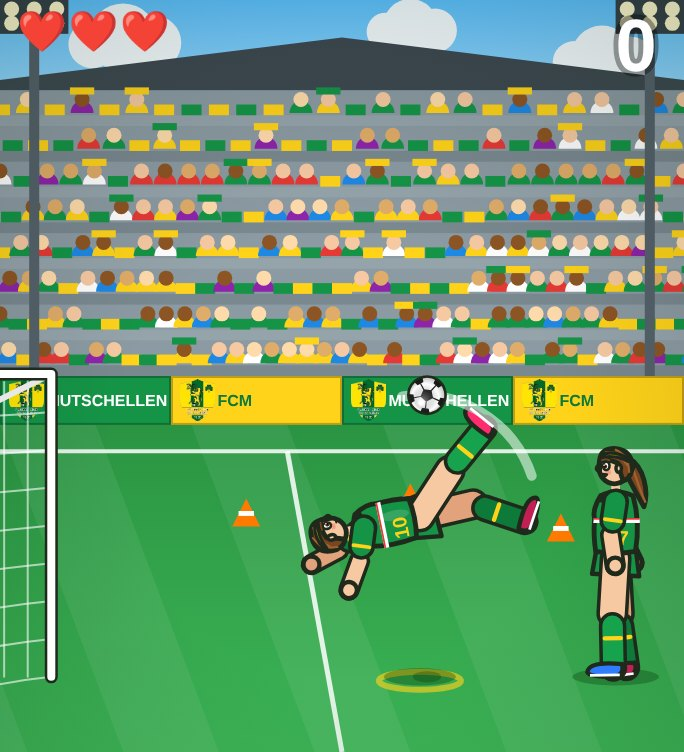
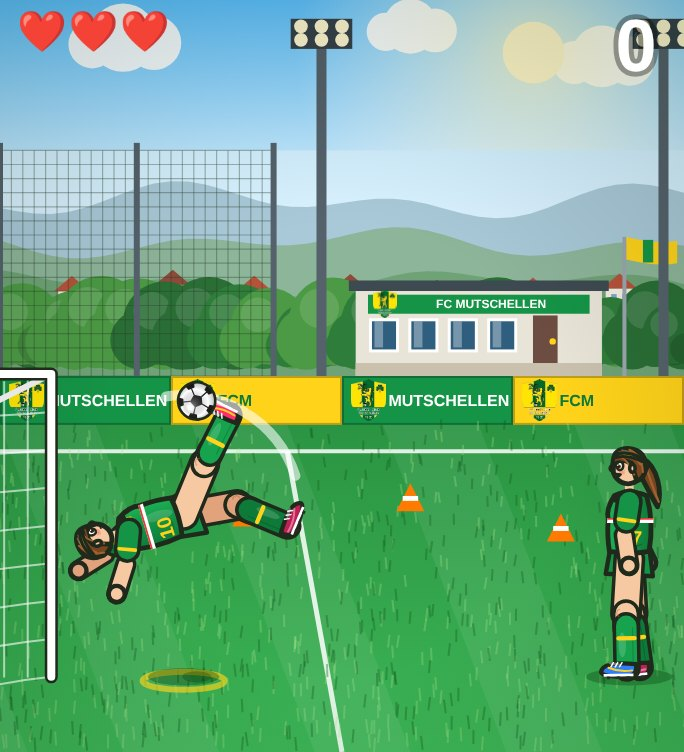
v5.44: Fallrückzieher – Trainingsplatz statt Tribüne, detailliertere Figuren
Claude-Session: https://claude.ai/code/session_012NCi8k7hXokk5zD6x6AgSm

diff --git a/index.html b/index.html
@@ -1908,7 +1908,7 @@ input.wc-sbox:focus{border-color:#8AB4F8}
 (function(){
 'use strict';
 var DAY=86400000, INT=[0,1,3,7,14,30], LS='lernwerkstatt.v1', DG=50;
-var APP_VERSION="v5.43";
+var APP_VERSION="v5.44";
 var C=null, P={}, nav={view:'home'}, timer=null, cardIdx={}, PADS={}, penTool='ink', lastAct=0, lastSave=0, SKIN=null, TQ=[];
 var LANG={engl:'en-GB',franz:'fr-FR'};
 var sync={db:null,state:'local',noWrite:false,timers:{},busy:{},last:{}};
@@ -6287,15 +6287,32 @@ GAMEFN.pong=function(cv,cx,w,h,score,over){
   function mkBG(){var c=document.createElement('canvas');c.width=w*dpr;c.height=h*dpr;var x=c.getContext('2d');x.scale(dpr,dpr);var i,k;
     var sk=x.createLinearGradient(0,0,0,h*.25);sk.addColorStop(0,'#5EC2FF');sk.addColorStop(1,'#D3F0FF');x.fillStyle=sk;x.fillRect(0,0,w,h*.25);
     x.fillStyle='rgba(255,255,255,.92)';[[.18,.05,.05],[.6,.035,.04],[.88,.075,.045]].forEach(function(q){cloud(x,q[0]*w,q[1]*h,w*q[2])});
-    var t0=h*.12,t1=h*.5;x.fillStyle='#8C9AA3';x.fillRect(0,t0,w,t1-t0);
-    x.fillStyle='#3E4A51';x.beginPath();x.moveTo(-5,t0-h*.012);x.lineTo(w*.5,t0-h*.07);x.lineTo(w+5,t0-h*.012);x.lineTo(w+5,t0);x.lineTo(-5,t0);x.fill();
-    var rows=8,rh=(t1-t0)/rows;for(var r=0;r<rows;r++){var yy=t0+r*rh;x.fillStyle=r%2?'#7A8890':'#95A3AB';x.fillRect(0,yy+rh*.7,w,rh*.3);
-      var n=26+r*2;for(i=0;i<n;i++){var sx=(i+(r%2)*.5)*w/(n-1),seed=r*70+i;
-        if(gHash(seed)<.66){var cols=['#159447','#FFD31A','#E53935','#1E88E5','#FFFFFF','#159447','#FFD31A','#8E24AA'];x.fillStyle=cols[Math.floor(gHash(seed+3)*cols.length)];x.beginPath();x.ellipse(sx,yy+rh*.64,rh*.32,rh*.34,0,Math.PI,0);x.fill();
-          x.fillStyle=['#F6C9A2','#E0AC69','#8D5524','#FFDBAC'][Math.floor(gHash(seed+7)*4)];x.beginPath();x.arc(sx,yy+rh*.26,rh*.21,0,7);x.fill();
-          if(gHash(seed+9)<.22){x.fillStyle=gHash(seed+11)<.5?YE:GR;x.fillRect(sx-rh*.34,yy-rh*.08,rh*.68,rh*.2)}}
-        else{x.fillStyle=(i+r)%2?GR:YE;x.fillRect(sx-rh*.28,yy+rh*.4,rh*.56,rh*.3)}}}
-    [w*.05,w*.95].forEach(function(mx){x.fillStyle='#55626B';x.fillRect(mx-2.5,h*.01,5,t1);x.fillStyle='#37424A';x.fillRect(mx-w*.05,0,w*.1,h*.045);x.fillStyle='#FFF8D0';for(var a=0;a<3;a++)for(var b=0;b<2;b++){x.beginPath();x.arc(mx-w*.033+a*w*.033,h*.012+b*h*.019,w*.011,0,7);x.fill()}});
+    var t1=h*.5;
+    glow(x,w*.78,h*.07,w*.35,'rgba(255,248,200,.8)');x.fillStyle='#FFF6C8';x.beginPath();x.arc(w*.78,h*.07,w*.045,0,7);x.fill();
+    var sk2=x.createLinearGradient(0,h*.2,0,t1);sk2.addColorStop(0,'#D3F0FF');sk2.addColorStop(1,'#EAF7FF');x.fillStyle=sk2;x.fillRect(0,h*.2,w,t1-h*.2);
+    /* Hügelzüge (Jura) */
+    function hills(y0,amp,col,seed){x.fillStyle=col;x.beginPath();x.moveTo(0,t1);for(var q=0;q<=40;q++){var xx=q/40*w,yy=y0-amp*(.55+.45*Math.sin(q*.35+seed)*Math.cos(q*.13+seed*2));x.lineTo(xx,yy)}x.lineTo(w,t1);x.fill()}
+    hills(h*.3,h*.06,'#A9C9D8',1);hills(h*.35,h*.05,'#8DB59A',3);hills(h*.4,h*.045,'#6FA276',5);
+    /* Häuser am Hang */
+    for(i=0;i<7;i++){var hx2=w*(.08+i*.13+gHash(i+40)*.04),hy2=h*(.37+gHash(i+41)*.03),hw2=w*.04,hh2=h*.025;x.fillStyle='#F3EEE4';x.fillRect(hx2,hy2,hw2,hh2);x.fillStyle=gHash(i+42)<.5?'#B5523B':'#8E4A3A';x.beginPath();x.moveTo(hx2-2,hy2);x.lineTo(hx2+hw2/2,hy2-hh2*.8);x.lineTo(hx2+hw2+2,hy2);x.fill();x.fillStyle='#7FA7C9';x.fillRect(hx2+hw2*.2,hy2+hh2*.3,hw2*.2,hh2*.3);x.fillRect(hx2+hw2*.6,hy2+hh2*.3,hw2*.2,hh2*.3)}
+    /* Baumreihe */
+    for(i=0;i<22;i++){var tx2=i/21*w+(gHash(i)-.5)*w*.04,ty2=t1-h*.02,tr=h*(.035+gHash(i+3)*.025);x.fillStyle='#5D4433';x.fillRect(tx2-2,ty2-tr*.4,4,tr*.5);
+      var tc=['#2F7D3A','#3E8E41','#2A6E35','#4C9A45'][Math.floor(gHash(i+5)*4)];x.fillStyle=tc;x.beginPath();x.arc(tx2,ty2-tr*.9,tr,0,7);x.arc(tx2-tr*.6,ty2-tr*.5,tr*.7,0,7);x.arc(tx2+tr*.6,ty2-tr*.5,tr*.7,0,7);x.fill();
+      x.fillStyle='rgba(255,255,255,.12)';x.beginPath();x.arc(tx2-tr*.3,ty2-tr*1.2,tr*.45,0,7);x.fill();x.fillStyle='rgba(0,0,0,.12)';x.beginPath();x.arc(tx2+tr*.4,ty2-tr*.4,tr*.5,0,7);x.fill()}
+    /* Clubhaus */
+    var chx=w*.52,chy=t1-h*.115,chw=w*.36,chh=h*.115;x.fillStyle='#E9E4D8';x.fillRect(chx,chy,chw,chh);x.fillStyle='#C9C1AE';x.fillRect(chx,chy+chh*.85,chw,chh*.15);
+    x.fillStyle='#3E4A51';x.fillRect(chx-w*.01,chy-h*.012,chw+w*.02,h*.014);
+    for(i=0;i<4;i++){var wx=chx+chw*(.06+i*.16);x.fillStyle='#2F5E7E';x.fillRect(wx,chy+chh*.35,chw*.11,chh*.36);x.fillStyle='rgba(255,255,255,.35)';x.fillRect(wx+2,chy+chh*.37,chw*.035,chh*.3);x.strokeStyle='#fff';x.lineWidth=1.5;x.strokeRect(wx,chy+chh*.35,chw*.11,chh*.36)}
+    x.fillStyle='#6D4C41';x.fillRect(chx+chw*.72,chy+chh*.3,chw*.1,chh*.55);x.fillStyle='#FFD31A';x.beginPath();x.arc(chx+chw*.8,chy+chh*.6,1.6,0,7);x.fill();
+    x.fillStyle=GR;x.fillRect(chx+chw*.05,chy+chh*.06,chw*.9,chh*.22);x.fillStyle='#fff';x.font='900 '+Math.floor(chh*.15)+'px Arial,sans-serif';x.textAlign='center';x.textBaseline='middle';x.fillText('FC MUTSCHELLEN',chx+chw*.55,chy+chh*.175);
+    if(LG.complete&&LG.naturalWidth){var lh2=chh*.32;x.drawImage(LG,chx+chw*.07,chy+chh*.01,lh2*LG.naturalWidth/LG.naturalHeight,lh2)}
+    /* Fahne */
+    x.fillStyle='#9AA5AD';x.fillRect(chx+chw+w*.03,chy-h*.07,2,chh+h*.07);x.fillStyle=YE;x.beginPath();x.moveTo(chx+chw+w*.03+2,chy-h*.07);x.quadraticCurveTo(chx+chw+w*.08,chy-h*.06,chx+chw+w*.11,chy-h*.065);x.lineTo(chx+chw+w*.11,chy-h*.035);x.quadraticCurveTo(chx+chw+w*.08,chy-h*.03,chx+chw+w*.03+2,chy-h*.04);x.fill();x.fillStyle=GR;x.fillRect(chx+chw+w*.06,chy-h*.066,w*.015,h*.03);
+    /* Ballfangnetz hinter dem Tor */
+    x.strokeStyle='rgba(40,60,40,.35)';x.lineWidth=.6;for(i=0;i<=24;i++){x.beginPath();x.moveTo(i*w*.4/24,h*.2);x.lineTo(i*w*.4/24,t1);x.stroke()}for(i=0;i<=16;i++){x.beginPath();x.moveTo(0,h*.2+i*(t1-h*.2)/16);x.lineTo(w*.4,h*.2+i*(t1-h*.2)/16);x.stroke()}
+    [0,w*.2,w*.4].forEach(function(px2){x.fillStyle='#55626B';x.fillRect(px2-1.5,h*.19,3,t1-h*.19)});
+    /* Flutlicht */
+    [w*.47,w*.97].forEach(function(mx){x.fillStyle='#55626B';x.fillRect(mx-2.5,h*.04,5,t1-h*.04);x.fillStyle='#37424A';x.fillRect(mx-w*.045,h*.025,w*.09,h*.04);x.fillStyle='#FFF8D0';for(var a=0;a<3;a++)for(var b=0;b<2;b++){x.beginPath();x.arc(mx-w*.03+a*w*.03,h*.035+b*h*.018,w*.01,0,7);x.fill()}});
     /* Werbebanden */
     var b0=t1,b1=h*.565,bw2=w/4;for(i=0;i<4;i++){var bx=i*bw2;x.fillStyle=i%2?YE:GR;x.fillRect(bx,b0,bw2,b1-b0);x.strokeStyle='rgba(0,0,0,.25)';x.lineWidth=1;x.strokeRect(bx+.5,b0+.5,bw2-1,b1-b0-1);
       var lh=(b1-b0)*.86;if(LG.complete&&LG.naturalWidth)x.drawImage(LG,bx+bw2*.05,b0+(b1-b0-lh)/2,lh*LG.naturalWidth/LG.naturalHeight,lh);
@@ -6305,6 +6322,7 @@ GAMEFN.pong=function(cv,cx,w,h,score,over){
     for(i=-2;i<9;i++){if(i%2)continue;x.fillStyle='rgba(255,255,255,.07)';x.beginPath();x.moveTo(i*w*.14,b1);x.lineTo((i+1)*w*.14,b1);x.lineTo((i+1)*w*.14+w*.18,h);x.lineTo(i*w*.14+w*.18,h);x.fill()}
     x.strokeStyle='rgba(255,255,255,.85)';x.lineWidth=2;x.beginPath();x.moveTo(0,h*.6);x.lineTo(w,h*.6);x.stroke();
     x.lineWidth=2.5;x.beginPath();x.moveTo(w*.42,h*.6);x.lineTo(w*.5,h);x.stroke();
+    for(i=0;i<900;i++){var gx3=gHash(i+100)*w,gy3=h*.57+Math.pow(gHash(i+200),.8)*h*.43,gl=2+gy3/h*5;x.strokeStyle=gHash(i+300)<.5?'rgba(20,90,30,.35)':'rgba(170,230,140,.3)';x.lineWidth=1;x.beginPath();x.moveTo(gx3,gy3);x.lineTo(gx3+(gHash(i+400)-.5)*2,gy3-gl);x.stroke()}
     /* Hütchen */
     [[.36,.7],[.6,.68],[.82,.72]].forEach(function(q){var px=q[0]*w,py=q[1]*h,s=7;x.fillStyle='#FF7A00';x.beginPath();x.moveTo(px-s,py);x.lineTo(px,py-s*2);x.lineTo(px+s,py);x.fill();x.fillStyle='#fff';x.fillRect(px-s*.55,py-s*1.1,s*1.1,s*.35)});
     var vg=x.createRadialGradient(w/2,h*.6,h*.3,w/2,h*.6,h*.85);vg.addColorStop(0,'rgba(0,0,0,0)');vg.addColorStop(1,'rgba(0,30,0,.22)');x.fillStyle=vg;x.fillRect(0,0,w,h);
@@ -6332,10 +6350,10 @@ GAMEFN.pong=function(cv,cx,w,h,score,over){
   var LW=2.2/M;
   function seg(x1,y1,x2,y2,wd,col){cx.lineCap='round';cx.strokeStyle=OL;cx.lineWidth=wd+LW*1.6;cx.beginPath();cx.moveTo(x1,y1);cx.lineTo(x2,y2);cx.stroke();cx.strokeStyle=col;cx.lineWidth=wd;cx.beginPath();cx.moveTo(x1,y1);cx.lineTo(x2,y2);cx.stroke()}
   function legD(L,k,back,boot){var kx=Math.sin(L)*.44,ky=Math.cos(L)*.44,a2=L-k,fx=kx+Math.sin(a2)*.44,fy=ky+Math.cos(a2)*.44,sk=back?SKIN2:SKIN,sock=back?GR2:'#17A24E';
-    seg(0,0,kx,ky,.2,sk);var mx=kx+Math.sin(a2)*.1,my=ky+Math.cos(a2)*.1;seg(mx,my,fx,fy,.165,sock);
+    seg(0,0,kx,ky,.2,sk);seg(kx,ky,kx+Math.sin(a2)*.12,ky+Math.cos(a2)*.12,.17,sk);var mx=kx+Math.sin(a2)*.1,my=ky+Math.cos(a2)*.1;seg(mx,my,fx,fy,.165,sock);cx.strokeStyle='rgba(0,0,0,.18)';cx.lineWidth=.008;for(var rb=0;rb<5;rb++){var rt=.2+rb*.13;cx.beginPath();cx.moveTo(mx+(fx-mx)*.05-Math.cos(a2)*(.05-rb*.006)+Math.sin(a2)*rt*.0,my+(fy-my)*.05+Math.sin(a2)*.05);cx.lineTo(mx+(fx-mx)*.95-Math.cos(a2)*(.05-rb*.006),my+(fy-my)*.95+Math.sin(a2)*.05);cx.stroke();break}cx.fillStyle='rgba(255,255,255,.16)';cx.beginPath();cx.ellipse(mx+(fx-mx)*.45+Math.cos(a2)*.035,my+(fy-my)*.45-Math.sin(a2)*.035,.03,.1,-a2,0,7);cx.fill();cx.strokeStyle=back?'rgba(120,60,40,.25)':'rgba(180,100,70,.4)';cx.lineWidth=.012;cx.beginPath();cx.arc(kx+Math.cos(L)*.045,ky-Math.sin(L)*.045,.03,-L-1.2,-L+1.2);cx.stroke();
     cx.strokeStyle=YE;cx.lineWidth=.035;cx.beginPath();var tx=kx+Math.sin(a2)*.2,ty=ky+Math.cos(a2)*.2;cx.moveTo(tx-Math.cos(a2)*.065,ty+Math.sin(a2)*.065);cx.lineTo(tx+Math.cos(a2)*.065,ty-Math.sin(a2)*.065);cx.stroke();
     cx.save();cx.translate(fx,fy);cx.rotate(-a2);cx.fillStyle=back?'#C21F55':boot;ol(LW);cx.beginPath();cx.moveTo(-.07,-.03);cx.quadraticCurveTo(.2,-.06,.21,.03);cx.quadraticCurveTo(.2,.07,0,.07);cx.quadraticCurveTo(-.09,.06,-.07,-.03);cx.fill();cx.stroke();
-    cx.fillStyle='#fff';cx.fillRect(-.05,.045,.24,.022);cx.restore();return [fx,fy]}
+    cx.fillStyle='#fff';cx.fillRect(-.05,.045,.24,.022);cx.fillStyle='#2B2B2B';[-.02,.06,.14].forEach(function(sx3){cx.fillRect(sx3,.066,.025,.022)});cx.strokeStyle='#fff';cx.lineWidth=.012;for(var lc=0;lc<3;lc++){cx.beginPath();cx.moveTo(.04+lc*.035,-.045);cx.lineTo(.06+lc*.035,-.012);cx.stroke()}cx.strokeStyle=back?'rgba(255,255,255,.4)':'#FFD31A';cx.lineWidth=.016;cx.beginPath();cx.moveTo(-.04,.02);cx.quadraticCurveTo(.06,.035,.15,-.005);cx.stroke();cx.fillStyle='rgba(255,255,255,.35)';cx.beginPath();cx.ellipse(.1,-.035,.05,.012,-.15,0,7);cx.fill();cx.restore();return [fx,fy]}
   function armD(A,e,back){var sx=0,sy=-.46,ex=Math.sin(A)*.27,ey=sy+Math.cos(A)*.27,a2=A+e,hx=ex+Math.sin(a2)*.25,hy=ey+Math.cos(a2)*.25,sk=back?SKIN2:SKIN;
     seg(ex,ey,hx,hy,.115,sk);seg(sx,sy,sx+Math.sin(A)*.15,sy+Math.cos(A)*.15,.16,back?GR2:GR);cx.strokeStyle=YE;cx.lineWidth=.03;cx.beginPath();cx.moveTo(Math.sin(A)*.15-Math.cos(A)*.065,sy+Math.cos(A)*.15+Math.sin(A)*.065);cx.lineTo(Math.sin(A)*.15+Math.cos(A)*.065,sy+Math.cos(A)*.15-Math.sin(A)*.065);cx.stroke();
     cx.fillStyle=sk;ol(LW);cx.beginPath();cx.arc(hx,hy,.065,0,7);cx.fill();cx.stroke();return [hx,hy]}
@@ -6348,12 +6366,12 @@ GAMEFN.pong=function(cv,cx,w,h,score,over){
     var bt=o.boot||'#FF2D6F';
     armD(p.aB,p.eB,true);legD(p.lB,p.kB,true,bt);
     /* Hose */
-    cx.fillStyle=GR;ol(LW);cx.beginPath();cx.moveTo(-.16,-.1);cx.lineTo(.15,-.1);cx.lineTo(.19,.12);cx.lineTo(-.19,.14);cx.closePath();cx.fill();cx.stroke();cx.strokeStyle=YE;cx.lineWidth=.03;cx.beginPath();cx.moveTo(0,-.08);cx.lineTo(.01,.1);cx.stroke();
+    cx.fillStyle=GR;ol(LW);cx.beginPath();cx.moveTo(-.16,-.1);cx.lineTo(.15,-.1);cx.lineTo(.19,.12);cx.lineTo(-.19,.14);cx.closePath();cx.fill();cx.stroke();cx.strokeStyle=YE;cx.lineWidth=.03;cx.beginPath();cx.moveTo(0,-.08);cx.lineTo(.01,.1);cx.stroke();cx.fillStyle='rgba(0,0,0,.18)';cx.fillRect(-.16,-.1,.31,.035);cx.fillStyle=YE;cx.font='900 .07px Arial,sans-serif';cx.textAlign='center';cx.save();cx.scale(dir,1);cx.fillText(o.num||'10',.08*dir,.05);cx.restore();
     var foot=legD(p.lF,p.kF,false,bt);
     /* Trikot */
-    cx.fillStyle=GR;ol(LW*1.1);cx.beginPath();cx.moveTo(-.16,-.06);cx.quadraticCurveTo(-.2,-.3,-.14,-.51);cx.quadraticCurveTo(0,-.57,.12,-.51);cx.quadraticCurveTo(.19,-.4,.17,-.32);cx.quadraticCurveTo(.18,-.18,.16,-.06);cx.quadraticCurveTo(0,-.03,-.16,-.06);cx.closePath();cx.fill();cx.stroke();
+    var jg=cx.createLinearGradient(-.18,0,.18,0);jg.addColorStop(0,GR2);jg.addColorStop(.55,GR);jg.addColorStop(1,'#1DB357');cx.fillStyle=jg;ol(LW*1.1);cx.beginPath();cx.moveTo(-.16,-.06);cx.quadraticCurveTo(-.2,-.3,-.14,-.51);cx.quadraticCurveTo(0,-.57,.12,-.51);cx.quadraticCurveTo(.19,-.4,.17,-.32);cx.quadraticCurveTo(.18,-.18,.16,-.06);cx.quadraticCurveTo(0,-.03,-.16,-.06);cx.closePath();cx.fill();cx.stroke();
     cx.fillStyle='#fff';cx.beginPath();cx.moveTo(.175,-.33);cx.lineTo(-.195,-.33);cx.lineTo(-.195,-.29);cx.lineTo(.18,-.29);cx.fill();cx.fillStyle='#E53935';cx.fillRect(-.195,-.33,.37,.014);
-    cx.fillStyle='rgba(255,255,255,.15)';cx.beginPath();cx.ellipse(.05,-.2,.04,.12,0,0,7);cx.fill();
+    cx.fillStyle='rgba(255,255,255,.15)';cx.beginPath();cx.ellipse(.05,-.2,.04,.12,0,0,7);cx.fill();cx.strokeStyle='rgba(0,0,0,.18)';cx.lineWidth=.012;cx.beginPath();cx.moveTo(-.1,-.12);cx.quadraticCurveTo(-.05,-.09,.0,-.12);cx.moveTo(-.08,-.42);cx.quadraticCurveTo(-.02,-.38,.04,-.43);cx.stroke();if(LG.complete&&LG.naturalWidth){cx.save();cx.scale(dir,1);cx.drawImage(LG,(dir>0?.03:-.11),-.47,.08,.094);cx.restore()}
     cx.fillStyle=YE;cx.font='900 .16px Arial Black,Arial,sans-serif';cx.textAlign='center';cx.textBaseline='middle';cx.save();cx.scale(dir,1);cx.fillText(o.num||'10',-.06*dir,-.16);cx.restore();
     cx.fillStyle=YE;ol(LW*.8);cx.beginPath();cx.moveTo(.02,-.53);cx.quadraticCurveTo(.1,-.5,.12,-.47);cx.lineTo(.08,-.46);cx.quadraticCurveTo(.05,-.49,.0,-.5);cx.closePath();cx.fill();cx.stroke();
     /* Hals + Kopf (Profil) */
@@ -6363,7 +6381,7 @@ GAMEFN.pong=function(cv,cx,w,h,score,over){
     cx.fillStyle=SKIN;cx.beginPath();cx.moveTo(.125,hy-.02);cx.quadraticCurveTo(.17,hy+.015,.13,hy+.03);cx.closePath();cx.fill();cx.stroke();
     /* Haare */
     cx.fillStyle=HAIR;ol(LW*1.1);cx.beginPath();cx.moveTo(.13,hy-.05);cx.quadraticCurveTo(.12,hy-.15,.01,hy-.15);cx.quadraticCurveTo(-.15,hy-.14,-.13,hy+.03);cx.quadraticCurveTo(-.11,hy+.1,-.06,hy+.11);cx.quadraticCurveTo(-.03,hy+.02,-.02,hy-.03);cx.quadraticCurveTo(.05,hy-.07,.13,hy-.05);cx.fill();cx.stroke();
-    cx.strokeStyle=HAIR2;cx.lineWidth=.016;cx.beginPath();cx.moveTo(.08,hy-.12);cx.quadraticCurveTo(-.03,hy-.12,-.09,hy-.02);cx.moveTo(.0,hy-.14);cx.quadraticCurveTo(-.1,hy-.1,-.11,hy+.04);cx.stroke();
+    cx.strokeStyle=HAIR2;cx.lineWidth=.016;cx.beginPath();cx.moveTo(.08,hy-.12);cx.quadraticCurveTo(-.03,hy-.12,-.09,hy-.02);cx.moveTo(.0,hy-.14);cx.quadraticCurveTo(-.1,hy-.1,-.11,hy+.04);cx.moveTo(.11,hy-.08);cx.quadraticCurveTo(.03,hy-.1,-.04,hy+.06);cx.stroke();cx.strokeStyle='rgba(255,220,170,.35)';cx.lineWidth=.012;cx.beginPath();cx.moveTo(.06,hy-.135);cx.quadraticCurveTo(-.02,hy-.13,-.07,hy-.07);cx.stroke();
     cx.fillStyle=YE;ol(LW*.7);cx.beginPath();cx.moveTo(.1,hy-.105);cx.quadraticCurveTo(0,hy-.13,-.1,hy-.07);cx.lineTo(-.105,hy-.045);cx.quadraticCurveTo(0,hy-.1,.11,hy-.08);cx.closePath();cx.fill();cx.stroke();
     /* Ohr */
     cx.fillStyle=SKIN;ol(LW*.8);cx.beginPath();cx.ellipse(-.025,hy+.01,.022,.032,0,0,7);cx.fill();cx.stroke();
@@ -6371,7 +6389,7 @@ GAMEFN.pong=function(cv,cx,w,h,score,over){
     var fc=o.face||'happy';
     if(fc==='ouch'){cx.strokeStyle=OL;cx.lineWidth=.016;cx.beginPath();cx.moveTo(.055,hy-.03);cx.lineTo(.095,hy+.005);cx.moveTo(.095,hy-.03);cx.lineTo(.055,hy+.005);cx.stroke();cx.fillStyle='#7A1E1E';cx.beginPath();cx.ellipse(.095,hy+.065,.022,.028,0,0,7);cx.fill()}
     else{cx.fillStyle='#fff';ol(LW*.6);cx.beginPath();cx.ellipse(.075,hy-.01,.026,.034,0,0,7);cx.fill();cx.stroke();cx.fillStyle='#4E2A12';cx.beginPath();cx.arc(.085,hy-.005,.017,0,7);cx.fill();cx.fillStyle='#111';cx.beginPath();cx.arc(.088,hy-.005,.008,0,7);cx.fill();cx.fillStyle='#fff';cx.beginPath();cx.arc(.093,hy-.014,.006,0,7);cx.fill();
-      cx.strokeStyle=OL;cx.lineWidth=.012;cx.beginPath();cx.moveTo(.1,hy-.04);cx.lineTo(.115,hy-.05);cx.stroke();
+      cx.strokeStyle=OL;cx.lineWidth=.012;cx.beginPath();cx.moveTo(.1,hy-.04);cx.lineTo(.115,hy-.05);cx.moveTo(.095,hy-.043);cx.lineTo(.104,hy-.058);cx.moveTo(.102,hy-.03);cx.lineTo(.12,hy-.034);cx.stroke();
       cx.strokeStyle=HAIR;cx.lineWidth=.014;cx.beginPath();cx.moveTo(.05,hy-.055);cx.quadraticCurveTo(.08,hy-.07+(fc==='focus'?.012:0),.11,hy-.055);cx.stroke();
       cx.fillStyle='rgba(255,110,110,.45)';cx.beginPath();cx.ellipse(.06,hy+.045,.025,.015,0,0,7);cx.fill();
       cx.fillStyle='rgba(160,90,50,.55)';[[.04,.03],[.055,.04],[.075,.033]].forEach(function(q){cx.beginPath();cx.arc(q[0],hy+q[1],.004,0,7);cx.fill()});

diff --git a/src/p6d.js b/src/p6d.js
@@ -637,15 +637,32 @@ GAMEFN.pong=function(cv,cx,w,h,score,over){
   function mkBG(){var c=document.createElement('canvas');c.width=w*dpr;c.height=h*dpr;var x=c.getContext('2d');x.scale(dpr,dpr);var i,k;
     var sk=x.createLinearGradient(0,0,0,h*.25);sk.addColorStop(0,'#5EC2FF');sk.addColorStop(1,'#D3F0FF');x.fillStyle=sk;x.fillRect(0,0,w,h*.25);
     x.fillStyle='rgba(255,255,255,.92)';[[.18,.05,.05],[.6,.035,.04],[.88,.075,.045]].forEach(function(q){cloud(x,q[0]*w,q[1]*h,w*q[2])});
-    var t0=h*.12,t1=h*.5;x.fillStyle='#8C9AA3';x.fillRect(0,t0,w,t1-t0);
-    x.fillStyle='#3E4A51';x.beginPath();x.moveTo(-5,t0-h*.012);x.lineTo(w*.5,t0-h*.07);x.lineTo(w+5,t0-h*.012);x.lineTo(w+5,t0);x.lineTo(-5,t0);x.fill();
-    var rows=8,rh=(t1-t0)/rows;for(var r=0;r<rows;r++){var yy=t0+r*rh;x.fillStyle=r%2?'#7A8890':'#95A3AB';x.fillRect(0,yy+rh*.7,w,rh*.3);
-      var n=26+r*2;for(i=0;i<n;i++){var sx=(i+(r%2)*.5)*w/(n-1),seed=r*70+i;
-        if(gHash(seed)<.66){var cols=['#159447','#FFD31A','#E53935','#1E88E5','#FFFFFF','#159447','#FFD31A','#8E24AA'];x.fillStyle=cols[Math.floor(gHash(seed+3)*cols.length)];x.beginPath();x.ellipse(sx,yy+rh*.64,rh*.32,rh*.34,0,Math.PI,0);x.fill();
-          x.fillStyle=['#F6C9A2','#E0AC69','#8D5524','#FFDBAC'][Math.floor(gHash(seed+7)*4)];x.beginPath();x.arc(sx,yy+rh*.26,rh*.21,0,7);x.fill();
-          if(gHash(seed+9)<.22){x.fillStyle=gHash(seed+11)<.5?YE:GR;x.fillRect(sx-rh*.34,yy-rh*.08,rh*.68,rh*.2)}}
-        else{x.fillStyle=(i+r)%2?GR:YE;x.fillRect(sx-rh*.28,yy+rh*.4,rh*.56,rh*.3)}}}
-    [w*.05,w*.95].forEach(function(mx){x.fillStyle='#55626B';x.fillRect(mx-2.5,h*.01,5,t1);x.fillStyle='#37424A';x.fillRect(mx-w*.05,0,w*.1,h*.045);x.fillStyle='#FFF8D0';for(var a=0;a<3;a++)for(var b=0;b<2;b++){x.beginPath();x.arc(mx-w*.033+a*w*.033,h*.012+b*h*.019,w*.011,0,7);x.fill()}});
+    var t1=h*.5;
+    glow(x,w*.78,h*.07,w*.35,'rgba(255,248,200,.8)');x.fillStyle='#FFF6C8';x.beginPath();x.arc(w*.78,h*.07,w*.045,0,7);x.fill();
+    var sk2=x.createLinearGradient(0,h*.2,0,t1);sk2.addColorStop(0,'#D3F0FF');sk2.addColorStop(1,'#EAF7FF');x.fillStyle=sk2;x.fillRect(0,h*.2,w,t1-h*.2);
+    /* Hügelzüge (Jura) */
+    function hills(y0,amp,col,seed){x.fillStyle=col;x.beginPath();x.moveTo(0,t1);for(var q=0;q<=40;q++){var xx=q/40*w,yy=y0-amp*(.55+.45*Math.sin(q*.35+seed)*Math.cos(q*.13+seed*2));x.lineTo(xx,yy)}x.lineTo(w,t1);x.fill()}
+    hills(h*.3,h*.06,'#A9C9D8',1);hills(h*.35,h*.05,'#8DB59A',3);hills(h*.4,h*.045,'#6FA276',5);
+    /* Häuser am Hang */
+    for(i=0;i<7;i++){var hx2=w*(.08+i*.13+gHash(i+40)*.04),hy2=h*(.37+gHash(i+41)*.03),hw2=w*.04,hh2=h*.025;x.fillStyle='#F3EEE4';x.fillRect(hx2,hy2,hw2,hh2);x.fillStyle=gHash(i+42)<.5?'#B5523B':'#8E4A3A';x.beginPath();x.moveTo(hx2-2,hy2);x.lineTo(hx2+hw2/2,hy2-hh2*.8);x.lineTo(hx2+hw2+2,hy2);x.fill();x.fillStyle='#7FA7C9';x.fillRect(hx2+hw2*.2,hy2+hh2*.3,hw2*.2,hh2*.3);x.fillRect(hx2+hw2*.6,hy2+hh2*.3,hw2*.2,hh2*.3)}
+    /* Baumreihe */
+    for(i=0;i<22;i++){var tx2=i/21*w+(gHash(i)-.5)*w*.04,ty2=t1-h*.02,tr=h*(.035+gHash(i+3)*.025);x.fillStyle='#5D4433';x.fillRect(tx2-2,ty2-tr*.4,4,tr*.5);
+      var tc=['#2F7D3A','#3E8E41','#2A6E35','#4C9A45'][Math.floor(gHash(i+5)*4)];x.fillStyle=tc;x.beginPath();x.arc(tx2,ty2-tr*.9,tr,0,7);x.arc(tx2-tr*.6,ty2-tr*.5,tr*.7,0,7);x.arc(tx2+tr*.6,ty2-tr*.5,tr*.7,0,7);x.fill();
+      x.fillStyle='rgba(255,255,255,.12)';x.beginPath();x.arc(tx2-tr*.3,ty2-tr*1.2,tr*.45,0,7);x.fill();x.fillStyle='rgba(0,0,0,.12)';x.beginPath();x.arc(tx2+tr*.4,ty2-tr*.4,tr*.5,0,7);x.fill()}
+    /* Clubhaus */
+    var chx=w*.52,chy=t1-h*.115,chw=w*.36,chh=h*.115;x.fillStyle='#E9E4D8';x.fillRect(chx,chy,chw,chh);x.fillStyle='#C9C1AE';x.fillRect(chx,chy+chh*.85,chw,chh*.15);
+    x.fillStyle='#3E4A51';x.fillRect(chx-w*.01,chy-h*.012,chw+w*.02,h*.014);
+    for(i=0;i<4;i++){var wx=chx+chw*(.06+i*.16);x.fillStyle='#2F5E7E';x.fillRect(wx,chy+chh*.35,chw*.11,chh*.36);x.fillStyle='rgba(255,255,255,.35)';x.fillRect(wx+2,chy+chh*.37,chw*.035,chh*.3);x.strokeStyle='#fff';x.lineWidth=1.5;x.strokeRect(wx,chy+chh*.35,chw*.11,chh*.36)}
+    x.fillStyle='#6D4C41';x.fillRect(chx+chw*.72,chy+chh*.3,chw*.1,chh*.55);x.fillStyle='#FFD31A';x.beginPath();x.arc(chx+chw*.8,chy+chh*.6,1.6,0,7);x.fill();
+    x.fillStyle=GR;x.fillRect(chx+chw*.05,chy+chh*.06,chw*.9,chh*.22);x.fillStyle='#fff';x.font='900 '+Math.floor(chh*.15)+'px Arial,sans-serif';x.textAlign='center';x.textBaseline='middle';x.fillText('FC MUTSCHELLEN',chx+chw*.55,chy+chh*.175);
+    if(LG.complete&&LG.naturalWidth){var lh2=chh*.32;x.drawImage(LG,chx+chw*.07,chy+chh*.01,lh2*LG.naturalWidth/LG.naturalHeight,lh2)}
+    /* Fahne */
+    x.fillStyle='#9AA5AD';x.fillRect(chx+chw+w*.03,chy-h*.07,2,chh+h*.07);x.fillStyle=YE;x.beginPath();x.moveTo(chx+chw+w*.03+2,chy-h*.07);x.quadraticCurveTo(chx+chw+w*.08,chy-h*.06,chx+chw+w*.11,chy-h*.065);x.lineTo(chx+chw+w*.11,chy-h*.035);x.quadraticCurveTo(chx+chw+w*.08,chy-h*.03,chx+chw+w*.03+2,chy-h*.04);x.fill();x.fillStyle=GR;x.fillRect(chx+chw+w*.06,chy-h*.066,w*.015,h*.03);
+    /* Ballfangnetz hinter dem Tor */
+    x.strokeStyle='rgba(40,60,40,.35)';x.lineWidth=.6;for(i=0;i<=24;i++){x.beginPath();x.moveTo(i*w*.4/24,h*.2);x.lineTo(i*w*.4/24,t1);x.stroke()}for(i=0;i<=16;i++){x.beginPath();x.moveTo(0,h*.2+i*(t1-h*.2)/16);x.lineTo(w*.4,h*.2+i*(t1-h*.2)/16);x.stroke()}
+    [0,w*.2,w*.4].forEach(function(px2){x.fillStyle='#55626B';x.fillRect(px2-1.5,h*.19,3,t1-h*.19)});
+    /* Flutlicht */
+    [w*.47,w*.97].forEach(function(mx){x.fillStyle='#55626B';x.fillRect(mx-2.5,h*.04,5,t1-h*.04);x.fillStyle='#37424A';x.fillRect(mx-w*.045,h*.025,w*.09,h*.04);x.fillStyle='#FFF8D0';for(var a=0;a<3;a++)for(var b=0;b<2;b++){x.beginPath();x.arc(mx-w*.03+a*w*.03,h*.035+b*h*.018,w*.01,0,7);x.fill()}});
     /* Werbebanden */
     var b0=t1,b1=h*.565,bw2=w/4;for(i=0;i<4;i++){var bx=i*bw2;x.fillStyle=i%2?YE:GR;x.fillRect(bx,b0,bw2,b1-b0);x.strokeStyle='rgba(0,0,0,.25)';x.lineWidth=1;x.strokeRect(bx+.5,b0+.5,bw2-1,b1-b0-1);
       var lh=(b1-b0)*.86;if(LG.complete&&LG.naturalWidth)x.drawImage(LG,bx+bw2*.05,b0+(b1-b0-lh)/2,lh*LG.naturalWidth/LG.naturalHeight,lh);
@@ -655,6 +672,7 @@ GAMEFN.pong=function(cv,cx,w,h,score,over){
     for(i=-2;i<9;i++){if(i%2)continue;x.fillStyle='rgba(255,255,255,.07)';x.beginPath();x.moveTo(i*w*.14,b1);x.lineTo((i+1)*w*.14,b1);x.lineTo((i+1)*w*.14+w*.18,h);x.lineTo(i*w*.14+w*.18,h);x.fill()}
     x.strokeStyle='rgba(255,255,255,.85)';x.lineWidth=2;x.beginPath();x.moveTo(0,h*.6);x.lineTo(w,h*.6);x.stroke();
     x.lineWidth=2.5;x.beginPath();x.moveTo(w*.42,h*.6);x.lineTo(w*.5,h);x.stroke();
+    for(i=0;i<900;i++){var gx3=gHash(i+100)*w,gy3=h*.57+Math.pow(gHash(i+200),.8)*h*.43,gl=2+gy3/h*5;x.strokeStyle=gHash(i+300)<.5?'rgba(20,90,30,.35)':'rgba(170,230,140,.3)';x.lineWidth=1;x.beginPath();x.moveTo(gx3,gy3);x.lineTo(gx3+(gHash(i+400)-.5)*2,gy3-gl);x.stroke()}
     /* Hütchen */
     [[.36,.7],[.6,.68],[.82,.72]].forEach(function(q){var px=q[0]*w,py=q[1]*h,s=7;x.fillStyle='#FF7A00';x.beginPath();x.moveTo(px-s,py);x.lineTo(px,py-s*2);x.lineTo(px+s,py);x.fill();x.fillStyle='#fff';x.fillRect(px-s*.55,py-s*1.1,s*1.1,s*.35)});
     var vg=x.createRadialGradient(w/2,h*.6,h*.3,w/2,h*.6,h*.85);vg.addColorStop(0,'rgba(0,0,0,0)');vg.addColorStop(1,'rgba(0,30,0,.22)');x.fillStyle=vg;x.fillRect(0,0,w,h);
@@ -682,10 +700,10 @@ GAMEFN.pong=function(cv,cx,w,h,score,over){
   var LW=2.2/M;
   function seg(x1,y1,x2,y2,wd,col){cx.lineCap='round';cx.strokeStyle=OL;cx.lineWidth=wd+LW*1.6;cx.beginPath();cx.moveTo(x1,y1);cx.lineTo(x2,y2);cx.stroke();cx.strokeStyle=col;cx.lineWidth=wd;cx.beginPath();cx.moveTo(x1,y1);cx.lineTo(x2,y2);cx.stroke()}
   function legD(L,k,back,boot){var kx=Math.sin(L)*.44,ky=Math.cos(L)*.44,a2=L-k,fx=kx+Math.sin(a2)*.44,fy=ky+Math.cos(a2)*.44,sk=back?SKIN2:SKIN,sock=back?GR2:'#17A24E';
-    seg(0,0,kx,ky,.2,sk);var mx=kx+Math.sin(a2)*.1,my=ky+Math.cos(a2)*.1;seg(mx,my,fx,fy,.165,sock);
+    seg(0,0,kx,ky,.2,sk);seg(kx,ky,kx+Math.sin(a2)*.12,ky+Math.cos(a2)*.12,.17,sk);var mx=kx+Math.sin(a2)*.1,my=ky+Math.cos(a2)*.1;seg(mx,my,fx,fy,.165,sock);cx.strokeStyle='rgba(0,0,0,.18)';cx.lineWidth=.008;for(var rb=0;rb<5;rb++){var rt=.2+rb*.13;cx.beginPath();cx.moveTo(mx+(fx-mx)*.05-Math.cos(a2)*(.05-rb*.006)+Math.sin(a2)*rt*.0,my+(fy-my)*.05+Math.sin(a2)*.05);cx.lineTo(mx+(fx-mx)*.95-Math.cos(a2)*(.05-rb*.006),my+(fy-my)*.95+Math.sin(a2)*.05);cx.stroke();break}cx.fillStyle='rgba(255,255,255,.16)';cx.beginPath();cx.ellipse(mx+(fx-mx)*.45+Math.cos(a2)*.035,my+(fy-my)*.45-Math.sin(a2)*.035,.03,.1,-a2,0,7);cx.fill();cx.strokeStyle=back?'rgba(120,60,40,.25)':'rgba(180,100,70,.4)';cx.lineWidth=.012;cx.beginPath();cx.arc(kx+Math.cos(L)*.045,ky-Math.sin(L)*.045,.03,-L-1.2,-L+1.2);cx.stroke();
     cx.strokeStyle=YE;cx.lineWidth=.035;cx.beginPath();var tx=kx+Math.sin(a2)*.2,ty=ky+Math.cos(a2)*.2;cx.moveTo(tx-Math.cos(a2)*.065,ty+Math.sin(a2)*.065);cx.lineTo(tx+Math.cos(a2)*.065,ty-Math.sin(a2)*.065);cx.stroke();
     cx.save();cx.translate(fx,fy);cx.rotate(-a2);cx.fillStyle=back?'#C21F55':boot;ol(LW);cx.beginPath();cx.moveTo(-.07,-.03);cx.quadraticCurveTo(.2,-.06,.21,.03);cx.quadraticCurveTo(.2,.07,0,.07);cx.quadraticCurveTo(-.09,.06,-.07,-.03);cx.fill();cx.stroke();
-    cx.fillStyle='#fff';cx.fillRect(-.05,.045,.24,.022);cx.restore();return [fx,fy]}
+    cx.fillStyle='#fff';cx.fillRect(-.05,.045,.24,.022);cx.fillStyle='#2B2B2B';[-.02,.06,.14].forEach(function(sx3){cx.fillRect(sx3,.066,.025,.022)});cx.strokeStyle='#fff';cx.lineWidth=.012;for(var lc=0;lc<3;lc++){cx.beginPath();cx.moveTo(.04+lc*.035,-.045);cx.lineTo(.06+lc*.035,-.012);cx.stroke()}cx.strokeStyle=back?'rgba(255,255,255,.4)':'#FFD31A';cx.lineWidth=.016;cx.beginPath();cx.moveTo(-.04,.02);cx.quadraticCurveTo(.06,.035,.15,-.005);cx.stroke();cx.fillStyle='rgba(255,255,255,.35)';cx.beginPath();cx.ellipse(.1,-.035,.05,.012,-.15,0,7);cx.fill();cx.restore();return [fx,fy]}
   function armD(A,e,back){var sx=0,sy=-.46,ex=Math.sin(A)*.27,ey=sy+Math.cos(A)*.27,a2=A+e,hx=ex+Math.sin(a2)*.25,hy=ey+Math.cos(a2)*.25,sk=back?SKIN2:SKIN;
     seg(ex,ey,hx,hy,.115,sk);seg(sx,sy,sx+Math.sin(A)*.15,sy+Math.cos(A)*.15,.16,back?GR2:GR);cx.strokeStyle=YE;cx.lineWidth=.03;cx.beginPath();cx.moveTo(Math.sin(A)*.15-Math.cos(A)*.065,sy+Math.cos(A)*.15+Math.sin(A)*.065);cx.lineTo(Math.sin(A)*.15+Math.cos(A)*.065,sy+Math.cos(A)*.15-Math.sin(A)*.065);cx.stroke();
     cx.fillStyle=sk;ol(LW);cx.beginPath();cx.arc(hx,hy,.065,0,7);cx.fill();cx.stroke();return [hx,hy]}
@@ -698,12 +716,12 @@ GAMEFN.pong=function(cv,cx,w,h,score,over){
     var bt=o.boot||'#FF2D6F';
     armD(p.aB,p.eB,true);legD(p.lB,p.kB,true,bt);
     /* Hose */
-    cx.fillStyle=GR;ol(LW);cx.beginPath();cx.moveTo(-.16,-.1);cx.lineTo(.15,-.1);cx.lineTo(.19,.12);cx.lineTo(-.19,.14);cx.closePath();cx.fill();cx.stroke();cx.strokeStyle=YE;cx.lineWidth=.03;cx.beginPath();cx.moveTo(0,-.08);cx.lineTo(.01,.1);cx.stroke();
+    cx.fillStyle=GR;ol(LW);cx.beginPath();cx.moveTo(-.16,-.1);cx.lineTo(.15,-.1);cx.lineTo(.19,.12);cx.lineTo(-.19,.14);cx.closePath();cx.fill();cx.stroke();cx.strokeStyle=YE;cx.lineWidth=.03;cx.beginPath();cx.moveTo(0,-.08);cx.lineTo(.01,.1);cx.stroke();cx.fillStyle='rgba(0,0,0,.18)';cx.fillRect(-.16,-.1,.31,.035);cx.fillStyle=YE;cx.font='900 .07px Arial,sans-serif';cx.textAlign='center';cx.save();cx.scale(dir,1);cx.fillText(o.num||'10',.08*dir,.05);cx.restore();
     var foot=legD(p.lF,p.kF,false,bt);
     /* Trikot */
-    cx.fillStyle=GR;ol(LW*1.1);cx.beginPath();cx.moveTo(-.16,-.06);cx.quadraticCurveTo(-.2,-.3,-.14,-.51);cx.quadraticCurveTo(0,-.57,.12,-.51);cx.quadraticCurveTo(.19,-.4,.17,-.32);cx.quadraticCurveTo(.18,-.18,.16,-.06);cx.quadraticCurveTo(0,-.03,-.16,-.06);cx.closePath();cx.fill();cx.stroke();
+    var jg=cx.createLinearGradient(-.18,0,.18,0);jg.addColorStop(0,GR2);jg.addColorStop(.55,GR);jg.addColorStop(1,'#1DB357');cx.fillStyle=jg;ol(LW*1.1);cx.beginPath();cx.moveTo(-.16,-.06);cx.quadraticCurveTo(-.2,-.3,-.14,-.51);cx.quadraticCurveTo(0,-.57,.12,-.51);cx.quadraticCurveTo(.19,-.4,.17,-.32);cx.quadraticCurveTo(.18,-.18,.16,-.06);cx.quadraticCurveTo(0,-.03,-.16,-.06);cx.closePath();cx.fill();cx.stroke();
     cx.fillStyle='#fff';cx.beginPath();cx.moveTo(.175,-.33);cx.lineTo(-.195,-.33);cx.lineTo(-.195,-.29);cx.lineTo(.18,-.29);cx.fill();cx.fillStyle='#E53935';cx.fillRect(-.195,-.33,.37,.014);
-    cx.fillStyle='rgba(255,255,255,.15)';cx.beginPath();cx.ellipse(.05,-.2,.04,.12,0,0,7);cx.fill();
+    cx.fillStyle='rgba(255,255,255,.15)';cx.beginPath();cx.ellipse(.05,-.2,.04,.12,0,0,7);cx.fill();cx.strokeStyle='rgba(0,0,0,.18)';cx.lineWidth=.012;cx.beginPath();cx.moveTo(-.1,-.12);cx.quadraticCurveTo(-.05,-.09,.0,-.12);cx.moveTo(-.08,-.42);cx.quadraticCurveTo(-.02,-.38,.04,-.43);cx.stroke();if(LG.complete&&LG.naturalWidth){cx.save();cx.scale(dir,1);cx.drawImage(LG,(dir>0?.03:-.11),-.47,.08,.094);cx.restore()}
     cx.fillStyle=YE;cx.font='900 .16px Arial Black,Arial,sans-serif';cx.textAlign='center';cx.textBaseline='middle';cx.save();cx.scale(dir,1);cx.fillText(o.num||'10',-.06*dir,-.16);cx.restore();
     cx.fillStyle=YE;ol(LW*.8);cx.beginPath();cx.moveTo(.02,-.53);cx.quadraticCurveTo(.1,-.5,.12,-.47);cx.lineTo(.08,-.46);cx.quadraticCurveTo(.05,-.49,.0,-.5);cx.closePath();cx.fill();cx.stroke();
     /* Hals + Kopf (Profil) */
@@ -713,7 +731,7 @@ GAMEFN.pong=function(cv,cx,w,h,score,over){
     cx.fillStyle=SKIN;cx.beginPath();cx.moveTo(.125,hy-.02);cx.quadraticCurveTo(.17,hy+.015,.13,hy+.03);cx.closePath();cx.fill();cx.stroke();
     /* Haare */
     cx.fillStyle=HAIR;ol(LW*1.1);cx.beginPath();cx.moveTo(.13,hy-.05);cx.quadraticCurveTo(.12,hy-.15,.01,hy-.15);cx.quadraticCurveTo(-.15,hy-.14,-.13,hy+.03);cx.quadraticCurveTo(-.11,hy+.1,-.06,hy+.11);cx.quadraticCurveTo(-.03,hy+.02,-.02,hy-.03);cx.quadraticCurveTo(.05,hy-.07,.13,hy-.05);cx.fill();cx.stroke();
-    cx.strokeStyle=HAIR2;cx.lineWidth=.016;cx.beginPath();cx.moveTo(.08,hy-.12);cx.quadraticCurveTo(-.03,hy-.12,-.09,hy-.02);cx.moveTo(.0,hy-.14);cx.quadraticCurveTo(-.1,hy-.1,-.11,hy+.04);cx.stroke();
+    cx.strokeStyle=HAIR2;cx.lineWidth=.016;cx.beginPath();cx.moveTo(.08,hy-.12);cx.quadraticCurveTo(-.03,hy-.12,-.09,hy-.02);cx.moveTo(.0,hy-.14);cx.quadraticCurveTo(-.1,hy-.1,-.11,hy+.04);cx.moveTo(.11,hy-.08);cx.quadraticCurveTo(.03,hy-.1,-.04,hy+.06);cx.stroke();cx.strokeStyle='rgba(255,220,170,.35)';cx.lineWidth=.012;cx.beginPath();cx.moveTo(.06,hy-.135);cx.quadraticCurveTo(-.02,hy-.13,-.07,hy-.07);cx.stroke();
     cx.fillStyle=YE;ol(LW*.7);cx.beginPath();cx.moveTo(.1,hy-.105);cx.quadraticCurveTo(0,hy-.13,-.1,hy-.07);cx.lineTo(-.105,hy-.045);cx.quadraticCurveTo(0,hy-.1,.11,hy-.08);cx.closePath();cx.fill();cx.stroke();
     /* Ohr */
     cx.fillStyle=SKIN;ol(LW*.8);cx.beginPath();cx.ellipse(-.025,hy+.01,.022,.032,0,0,7);cx.fill();cx.stroke();
@@ -721,7 +739,7 @@ GAMEFN.pong=function(cv,cx,w,h,score,over){
     var fc=o.face||'happy';
     if(fc==='ouch'){cx.strokeStyle=OL;cx.lineWidth=.016;cx.beginPath();cx.moveTo(.055,hy-.03);cx.lineTo(.095,hy+.005);cx.moveTo(.095,hy-.03);cx.lineTo(.055,hy+.005);cx.stroke();cx.fillStyle='#7A1E1E';cx.beginPath();cx.ellipse(.095,hy+.065,.022,.028,0,0,7);cx.fill()}
     else{cx.fillStyle='#fff';ol(LW*.6);cx.beginPath();cx.ellipse(.075,hy-.01,.026,.034,0,0,7);cx.fill();cx.stroke();cx.fillStyle='#4E2A12';cx.beginPath();cx.arc(.085,hy-.005,.017,0,7);cx.fill();cx.fillStyle='#111';cx.beginPath();cx.arc(.088,hy-.005,.008,0,7);cx.fill();cx.fillStyle='#fff';cx.beginPath();cx.arc(.093,hy-.014,.006,0,7);cx.fill();
-      cx.strokeStyle=OL;cx.lineWidth=.012;cx.beginPath();cx.moveTo(.1,hy-.04);cx.lineTo(.115,hy-.05);cx.stroke();
+      cx.strokeStyle=OL;cx.lineWidth=.012;cx.beginPath();cx.moveTo(.1,hy-.04);cx.lineTo(.115,hy-.05);cx.moveTo(.095,hy-.043);cx.lineTo(.104,hy-.058);cx.moveTo(.102,hy-.03);cx.lineTo(.12,hy-.034);cx.stroke();
       cx.strokeStyle=HAIR;cx.lineWidth=.014;cx.beginPath();cx.moveTo(.05,hy-.055);cx.quadraticCurveTo(.08,hy-.07+(fc==='focus'?.012:0),.11,hy-.055);cx.stroke();
       cx.fillStyle='rgba(255,110,110,.45)';cx.beginPath();cx.ellipse(.06,hy+.045,.025,.015,0,0,7);cx.fill();
       cx.fillStyle='rgba(160,90,50,.55)';[[.04,.03],[.055,.04],[.075,.033]].forEach(function(q){cx.beginPath();cx.arc(q[0],hy+q[1],.004,0,7);cx.fill()});

diff --git a/src/p1.js b/src/p1.js
@@ -1,7 +1,7 @@
 (function(){
 'use strict';
 var DAY=86400000, INT=[0,1,3,7,14,30], LS='lernwerkstatt.v1', DG=50;
-var APP_VERSION="v5.43";
+var APP_VERSION="v5.44";
 var C=null, P={}, nav={view:'home'}, timer=null, cardIdx={}, PADS={}, penTool='ink', lastAct=0, lastSave=0, SKIN=null, TQ=[];
 var LANG={engl:'en-GB',franz:'fr-FR'};
 var sync={db:null,state:'local',noWrite:false,timers:{},busy:{},last:{}};
